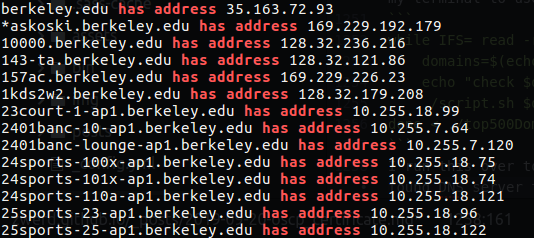
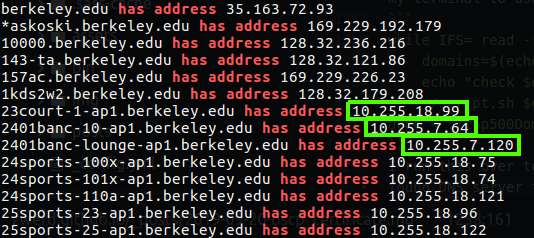
update

Changed region(s): [[0.6292, 0.4118, 0.9888, 0.6765]]

diff --git a/_posts/2019-09-20-oscp_certificate.md b/_posts/2019-09-20-oscp_certificate.md
@@ -1267,4 +1267,22 @@ I run this over to find a leak in some DNS server that can be found by using tha
 ![OSCP Post](/assets/images/oscp/hostleakdns.png)
 **Figure 96** DNS of berkeley.edu domain, the adns3.berkeley.edu give us information.
 
-I supposed that there is more DNS leak that can be found on that list, but that's it for now.
+As you can see, big part of that addresses we found contain privet addresses, and this is what that DNS ZONE TRANSFER can give us, if someone have done misconfiguration of his DNS server this can allow leak of information that potential hackers can take advantage. In our case we can actually map the berkeley University network and if we find a way to get into their network, we can use the information we found to take additional actions that can be critical to the organization (in our case - the university).I supposed that there is more DNS leak that can be found on that list, but that's it for now.
+
+On Kali Linux we have tools that can help us to find the same information we did found by runing our script, the first one is **DNSRecon**, this tool are DNS enumeration script that was written in Python, in out case we going to run that tool against the berkeley.edu domain and check out if we have the same output we saw on our script. The command we going to run is as follow:
+```
+dnsrecon -d berkeley.edu -t axfr
+```
+The **-d** option used for domain name that we going to go against, the **-t** stend for type and the **axfr** are the DNS protocol that allow us to make replication of all the record that DNS have, this protocol are use to replicate one DNS server to another DNS server and that is what the AXFR is designed to do, and because the server is not hardened properly we can replicate to our local computer, even though it is not something that should be enabled, but only to the enterprise DNS servers.
+
+I found more records from 10.255 segment and in the list which was really long, I found the 7.120 server which are the 2401banc-lounge-ap1 server.
+
+![OSCP Post](/assets/images/oscp/dnsrecon.png)
+**Figure 97** Leak of information that found using dnsrecon.
+
+On that list you can see that the record type specified on every line, in our case the is also MX records. CNAME, AAAA and PTR.
+
+The second tool that we can use is **DNSEnum**, this tool check the domain we entered to find ZONE TRANSFER point at the organization DNS server, in my case it didn't find any record, so it is importance to know every tool, becouse in many case this tool can be handy, but on the other cases like in my case it is useless, I run it against my zwerd.com.
+
+![OSCP Post](/assets/images/oscp/dnsenum.png)
+**Figure 98** DNSEnum tool against zwerd.com domain.
